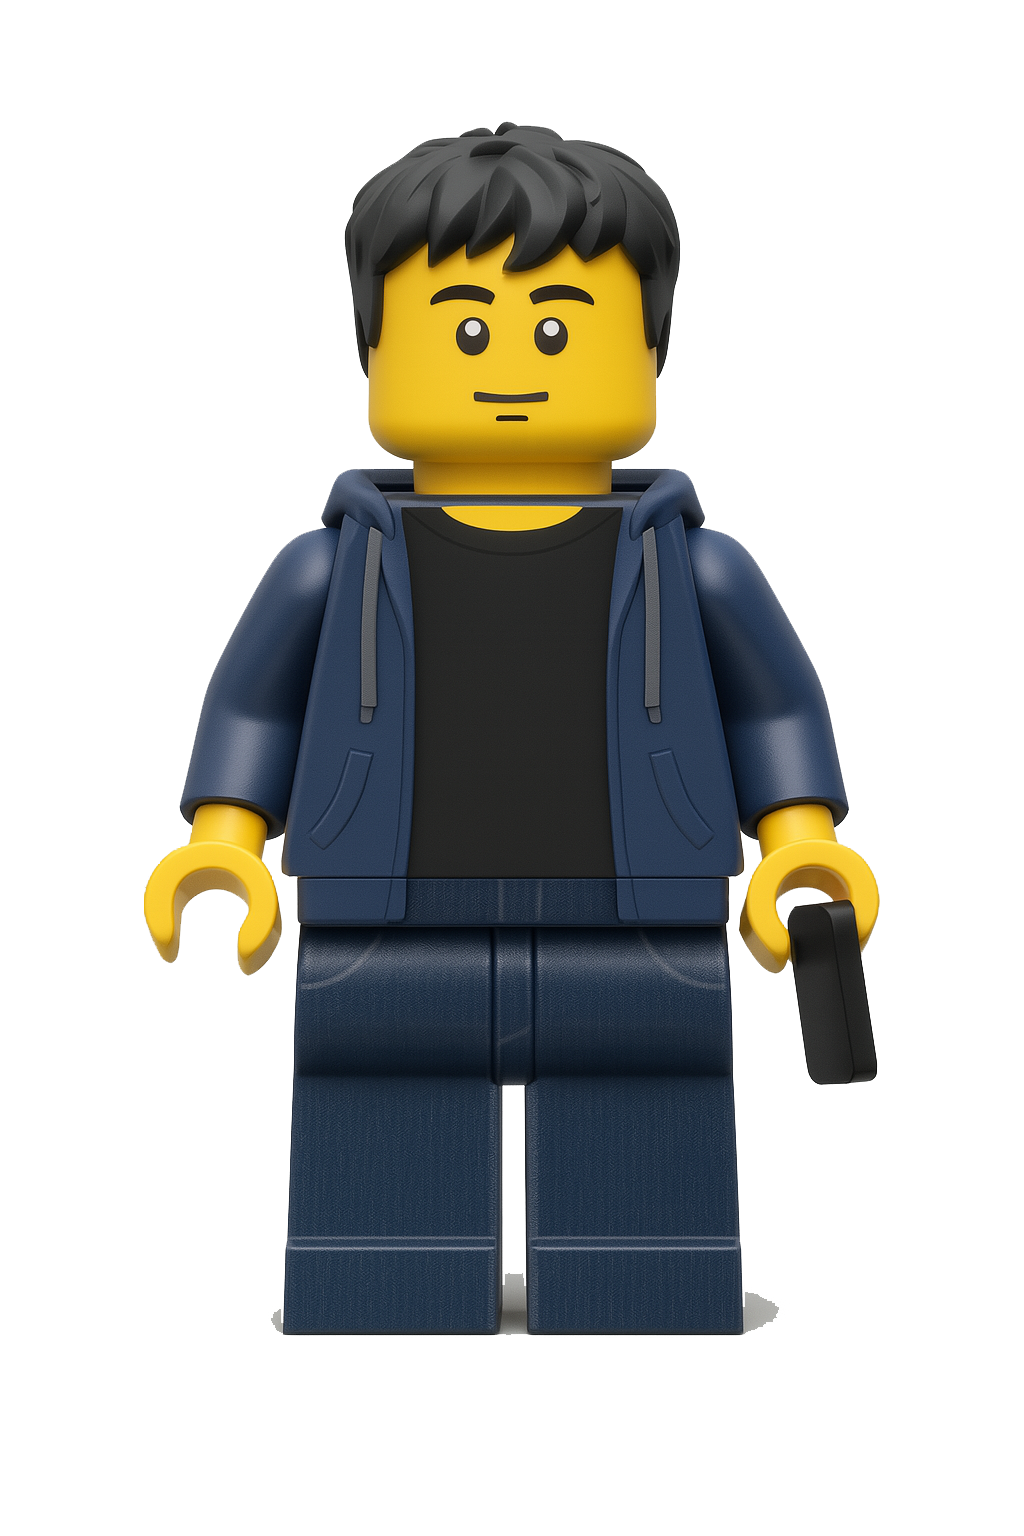
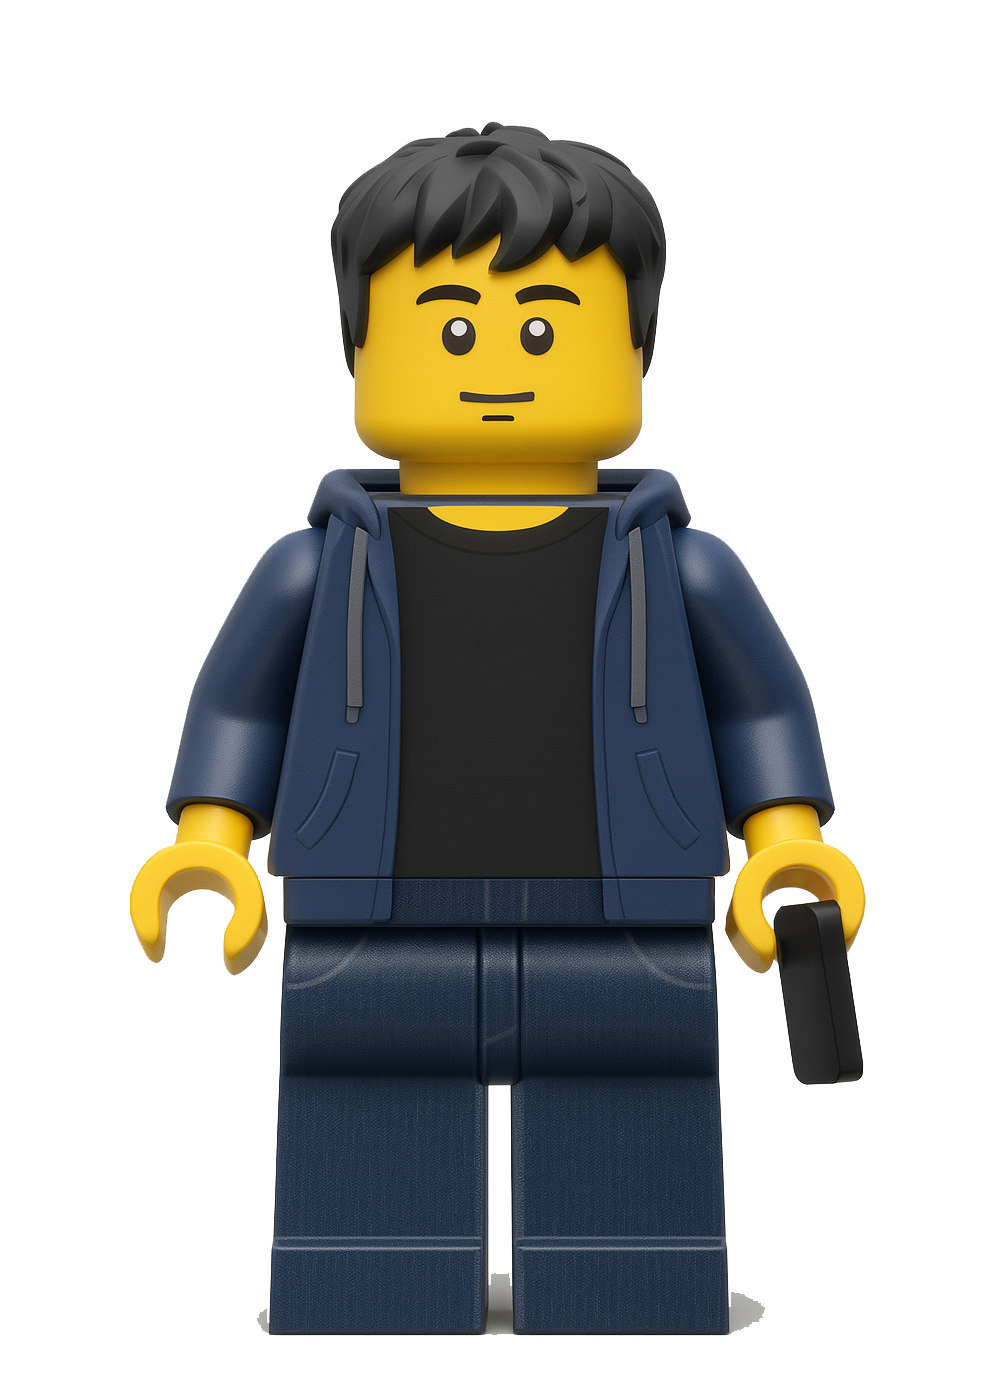
refactor: new hero design

Changed region(s): [[0.1215, 0.062, 0.8806, 0.9618], [0.334, 0.4654, 0.3947, 0.5274]]

diff --git a/src/components/layout/Hero.tsx b/src/components/layout/Hero.tsx
@@ -1,56 +1,27 @@
 'use client';
 
 import Image from 'next/image';
-import { useState } from 'react';
-import StudentInfo from './StudentInfo';
-import SkillsInfo from './SkillsInfo';
+import ModelInfo from './ModelInfo';
 
 export default function Hero() {
-  const [isHovered, setIsHovered] = useState(false);
-
   return (
-    <section className="min-h-screen flex items-center px-6 lg:px-8">
-      <div className="max-w-7xl mx-auto w-full">
-        <div className="grid grid-cols-1 lg:grid-cols-[40%_60%] gap-8 lg:gap-12 items-center">
-          {/* Left Column - Image */}
-          <div className="order-1 lg:order-1 flex justify-center lg:justify-start">
-            <div 
-              className="relative w-full max-w-md lg:max-w-lg xl:max-w-xl cursor-pointer"
-              onMouseEnter={() => setIsHovered(true)}
-              onMouseLeave={() => setIsHovered(false)}
-            >
-              {/* Front image */}
-              <Image
-                src="/lego-model-front.png"
-                alt="Lego Model Front"
-                width={600}
-                height={600}
-                className={`w-full h-auto object-contain transition-opacity duration-500 ease-in-out ${
-                  isHovered ? 'opacity-0' : 'opacity-100'
-                }`}
-                priority
-              />
-              {/* Back image */}
-              <Image
-                src="/lego-model-back.png"
-                alt="Lego Model Back"
-                width={600}
-                height={600}
-                className={`w-full h-auto object-contain transition-opacity duration-500 ease-in-out absolute inset-0 translate-y-2 ${
-                  isHovered ? 'opacity-100' : 'opacity-0'
-                }`}
-              />
-            </div>
-          </div>
-          
-          {/* Right Column - Content */}
-          <div className="order-2 lg:order-2">
-            <div className="flex flex-col gap-6 lg:gap-8">
-              <StudentInfo />
-              <SkillsInfo />
-            </div>
-          </div>
+    <section className="min-h-screen relative flex items-center justify-center px-4 py-8">
+      {/* Lego Model Image - centered */}
+      <div className="flex items-center justify-center w-full max-w-2xl">
+        <div className="relative w-full aspect-square max-w-[400px] sm:max-w-[450px] md:max-w-[500px] lg:max-w-[550px]">
+          <Image
+            src="/lego-model-front.png"
+            alt="Lego Model - Jiehoon Lee"
+            fill
+            className="object-contain"
+            priority
+          />
         </div>
+      </div>
+
+      {/* Model Info - positioned at bottom left */}
+      <div className="absolute bottom-8 left-4 sm:left-8 md:left-12">
+        <ModelInfo />
       </div>
     </section>
   );

diff --git a/src/components/layout/ModelInfo.tsx b/src/components/layout/ModelInfo.tsx
@@ -1,0 +1,39 @@
+'use client';
+
+import React from 'react';
+
+export default function ModelInfo() {
+  return (
+    <div className="flex flex-col gap-1 items-start text-left">
+      {/* Title */}
+      <h2 
+        className="text-[#6E7F8D] text-xs sm:text-sm md:text-base font-bold leading-tight tracking-tight text-left"
+        style={{ fontFamily: 'Montserrat' }}
+      >
+        Jiehoon Lee
+      </h2>
+      
+      {/* Info items in a row */}
+      <div className="flex flex-col sm:flex-row gap-1 sm:gap-3 items-start">
+        <span 
+          className="text-[#6E7F8D] text-[10px] sm:text-xs md:text-sm font-normal leading-tight tracking-tight text-left"
+          style={{ fontFamily: 'Montserrat' }}
+        >
+          Origin: <span className="font-semibold">Miami, FL</span>
+        </span>
+        <span 
+          className="text-[#6E7F8D] text-[10px] sm:text-xs md:text-sm font-normal leading-tight tracking-tight text-left"
+          style={{ fontFamily: 'Montserrat' }}
+        >
+          Status: <span className="font-semibold">Aspiring Software Engineer</span>
+        </span>
+        <span 
+          className="text-[#6E7F8D] text-[10px] sm:text-xs md:text-sm font-normal leading-tight tracking-tight text-left"
+          style={{ fontFamily: 'Montserrat' }}
+        >
+          <span className="font-semibold">Boston University Edition*</span>
+        </span>
+      </div>
+    </div>
+  );
+}

diff --git a/src/app/layout.tsx b/src/app/layout.tsx
@@ -26,12 +26,14 @@ export default function RootLayout({
         style={{ fontFamily: 'var(--font-montserrat), Montserrat, sans-serif' }}
       >
         {/* App wrapper */}
-        <div className="flex flex-col min-h-screen">
-          {/* Global navigation bar */}
-          <Navbar />
+        <div className="relative min-h-screen">
+          {/* Global navigation bar - overlay */}
+          <div className="fixed top-0 left-0 right-0 z-50">
+            <Navbar />
+          </div>
 
-          {/* Main page content */}
-          <main className="flex-1">{children}</main>
+          {/* Main page content - full screen */}
+          <main className="min-h-screen">{children}</main>
         </div>
       </body>
     </html>
